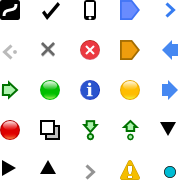
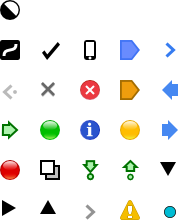
Show contrast ratio value on color picker when applicable.
The bubble moves out of the way when the drag element collides with it, and doesn't move again until there is another collision.

Screenshots in linked bug.

This does not make the info bubble interactive; that will come in a later CL.

BUG=514674

Review-Url: https://codereview.chromium.org/2969843005
Cr-Original-Commit-Position: refs/heads/master@{#489731}
Cr-Mirrored-From: https://chromium.googlesource.com/chromium/src
Cr-Mirrored-Commit: 2f925c9a0144adf5823e14217e74854df82a51e4

diff --git a/WebKit/Source/devtools/front_end/color_picker/Spectrum.js b/WebKit/Source/devtools/front_end/color_picker/Spectrum.js
@@ -52,8 +52,9 @@ ColorPicker.Spectrum = class extends UI.VBox {
     this._colorDragElement = this._colorElement.createChild('div', 'spectrum-sat fill')
                                  .createChild('div', 'spectrum-val fill')
                                  .createChild('div', 'spectrum-dragger');
-    var contrastRatioSVG = this._colorElement.createSVGChild('svg', 'spectrum-contrast-container fill');
-    this._contrastRatioLine = contrastRatioSVG.createSVGChild('path', 'spectrum-contrast-line');
+
+    if (Runtime.experiments.isEnabled('colorContrastRatio'))
+      this._setUpContrastRatioUI();
 
     var toolbar = new UI.Toolbar('spectrum-eye-dropper', this.contentElement);
     this._colorPickerButton = new UI.ToolbarToggle(Common.UIString('Toggle color picker'), 'largeicon-eyedropper');
@@ -194,7 +195,25 @@ ColorPicker.Spectrum = class extends UI.VBox {
       var hsva = this._hsv.slice();
       hsva[1] = Number.constrain((event.x - this._colorOffset.left) / this.dragWidth, 0, 1);
       hsva[2] = Number.constrain(1 - (event.y - this._colorOffset.top) / this.dragHeight, 0, 1);
+
+      if (Runtime.experiments.isEnabled('colorContrastRatio'))
+        positionContrastInfo(this._contrastInfo, event);
+
       this._innerSetColor(hsva, '', undefined, ColorPicker.Spectrum._ChangeSource.Other);
+    }
+
+    /**
+     * @param {!Element} info
+     * @param {!Event} event
+     */
+    function positionContrastInfo(info, event) {
+      if (!info.boxInWindow().contains(event.x, event.y))
+        return;
+
+      if (info.offsetWidth > ((info.offsetParent.offsetWidth / 2) - 10))
+        info.classList.toggle('contrast-info-top');
+      else
+        info.classList.toggle('contrast-info-left');
     }
   }
 
@@ -696,8 +715,10 @@ ColorPicker.Spectrum = class extends UI.VBox {
 
   /**
    * @param {number} requiredContrast
+   * @param {!Array<number>} bgRGBA
+   * @param {!Array<number>} fgRGBA
    */
-  _drawContrastRatioLine(requiredContrast) {
+  _drawContrastRatioLine(requiredContrast, bgRGBA, fgRGBA) {
     if (!this._contrastColor || !this.dragWidth || !this.dragHeight)
       return;
 
@@ -710,11 +731,10 @@ ColorPicker.Spectrum = class extends UI.VBox {
     /** const */ var V = 2;
     /** const */ var A = 3;
 
-    var fgRGBA = [];
-    Common.Color.hsva2rgba(this._hsv, fgRGBA);
-    var fgLuminance = Common.Color.luminance(fgRGBA);
-    var bgRGBA = this._contrastColor.rgba();
     var bgLuminance = Common.Color.luminance(bgRGBA);
+    var blendedRGBA = [];
+    Common.Color.blendColors(fgRGBA, bgRGBA, blendedRGBA);
+    var fgLuminance = Common.Color.luminance(blendedRGBA);
     var fgIsLighter = fgLuminance > bgLuminance;
     var desiredLuminance = Common.Color.desiredLuminance(bgLuminance, requiredContrast, fgIsLighter);
 
@@ -724,7 +744,6 @@ ColorPicker.Spectrum = class extends UI.VBox {
     var pathBuilder = [];
     var candidateRGBA = [];
     Common.Color.hsva2rgba(candidateHSVA, candidateRGBA);
-    var blendedRGBA = [];
     Common.Color.blendColors(candidateRGBA, bgRGBA, blendedRGBA);
 
     /**
@@ -780,13 +799,64 @@ ColorPicker.Spectrum = class extends UI.VBox {
     this._contrastRatioLine.setAttribute('d', pathBuilder.join(' '));
   }
 
+  _setUpContrastRatioUI() {
+    var contrastRatioSVG = this._colorElement.createSVGChild('svg', 'spectrum-contrast-container fill');
+    this._contrastRatioLine = contrastRatioSVG.createSVGChild('path', 'spectrum-contrast-line');
+    this._contrastInfo = this._colorElement.createChild('div', 'spectrum-contrast-info');
+    this._contrastInfo.classList.add('force-white-icons');
+    this._contrastInfo.createChild('span', 'low-contrast').textContent = Common.UIString('Low contrast');
+    this._contrastInfo.createChild('span', 'value');
+    this._contrastInfo.appendChild(UI.Icon.create('smallicon-contrast-ratio'));
+  }
+
+
+  /**
+   * @param {boolean} show
+   */
+  _setContrastInfoVisible(show) {
+    var info = this._contrastInfo;
+    if (!show) {
+      info.classList.add('hidden');
+      return;
+    }
+
+    info.classList.remove('hidden');
+
+    var fgRGBA = [];
+    Common.Color.hsva2rgba(this._hsv, fgRGBA);
+    var bgRGBA = this._contrastColor.rgba();
+    var contrastRatio = Common.Color.calculateContrastRatio(fgRGBA, bgRGBA);
+
+    // TODO(aboxhall): Determine size of text and switch between AA/AAA ratings.
+    var requiredContrast = 4.5;
+
+    this._contrastInfo.querySelector('.value').textContent = contrastRatio.toFixed(2);
+    this._contrastInfo.classList.toggle('contrast-fail', (contrastRatio < requiredContrast));
+    this._drawContrastRatioLine(requiredContrast, bgRGBA, fgRGBA);
+
+    var draggerBox = this._colorDragElement.boxInWindow();
+    var dragX = draggerBox.x + (draggerBox.width / 2);
+    var dragY = draggerBox.y + (draggerBox.height / 2);
+    var infoBox = info.boxInWindow();
+    if (infoBox.contains(dragX, dragY)) {
+      if (info.offsetWidth > ((info.offsetParent.offsetWidth / 2) - 10))
+        info.classList.toggle('contrast-info-top');
+      else
+        info.classList.toggle('contrast-info-left');
+    }
+  }
+
+
   _updateUI() {
     var h = Common.Color.fromHSVA([this._hsv[0], 1, 1, 1]);
     this._colorElement.style.backgroundColor = /** @type {string} */ (h.asString(Common.Color.Format.RGB));
     if (Runtime.experiments.isEnabled('colorContrastRatio')) {
-      // TODO(samli): Determine size of text and switch between AA/AAA ratings.
-      this._drawContrastRatioLine(4.5);
+      if (this.dragWidth && this._contrastColor)
+        this._setContrastInfoVisible(true);
+      else
+        this._setContrastInfoVisible(false);
     }
+
     this._swatchInnerElement.style.backgroundColor =
         /** @type {string} */ (this._color().asString(Common.Color.Format.RGBA));
     // Show border if the swatch is white.

diff --git a/WebKit/Source/devtools/front_end/color_picker/spectrum.css b/WebKit/Source/devtools/front_end/color_picker/spectrum.css
@@ -90,6 +90,47 @@
     box-shadow: 0 1px 4px 0 rgba(0, 0, 0, 0.37);
 }
 
+.spectrum-contrast-info {
+    position: absolute;
+    right: 10px;
+    left: auto;
+    bottom: 10px;
+    color: white;
+    border-radius: 2px;
+    padding: 3px 3px 2px;
+    background-color: rgba(255, 255, 255, 0.2);
+    align-items: center;
+    transition: right .05s ease-out, left .05s ease-out, bottom .05s ease-out, top .05s ease-out;
+}
+
+.spectrum-contrast-info .low-contrast {
+    display: none;
+    margin-right: 3px;
+}
+
+.spectrum-contrast-info.contrast-fail .low-contrast {
+    display: initial;
+}
+
+.spectrum-contrast-info.contrast-info-left {
+    left: 10px;
+    right: auto;
+}
+
+.spectrum-contrast-info.contrast-info-top {
+    top: 10px;
+    bottom: auto;
+    background-color: rgba(0, 0, 0, 0.2);
+}
+
+.spectrum-contrast-info.contrast-fail {
+    background-color: #b40202;
+}
+
+.spectrum-contrast-info .value {
+    margin-right: 4px;
+}
+
 .swatch {
     width: 32px;
     height: 32px;

diff --git a/WebKit/Source/devtools/front_end/ui/Icon.js b/WebKit/Source/devtools/front_end/ui/Icon.js
@@ -120,6 +120,7 @@ UI.Icon.Descriptors = {
   'smallicon-bezier': {position: 'a5', spritesheet: 'smallicons', isMask: true},
   'smallicon-checkmark': {position: 'b5', spritesheet: 'smallicons'},
   'smallicon-command-result': {position: 'a4', spritesheet: 'smallicons'},
+  'smallicon-contrast-ratio': {position: 'a6', spritesheet: 'smallicons', isMask: true},
   'smallicon-cross': {position: 'b4', spritesheet: 'smallicons'},
   'smallicon-device': {position: 'c5', spritesheet: 'smallicons'},
   'smallicon-error': {position: 'c4', spritesheet: 'smallicons'},
